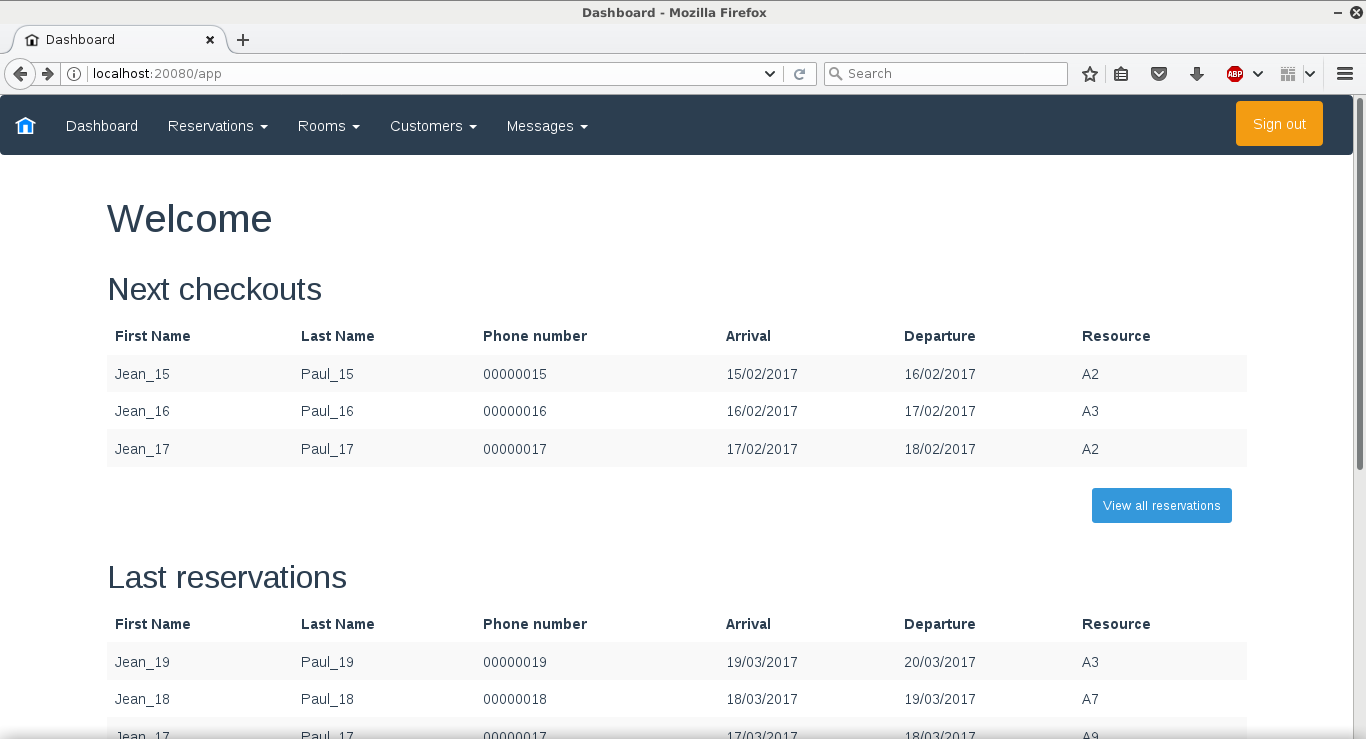
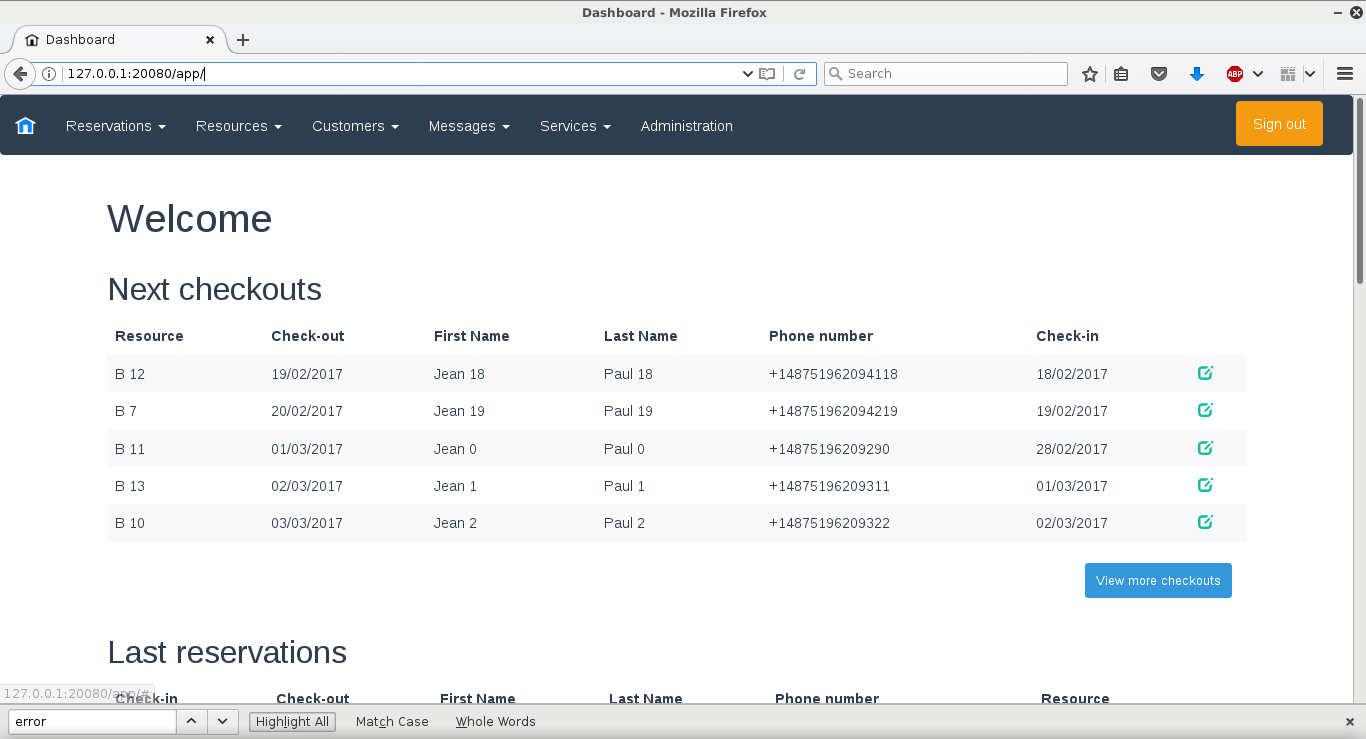
Improve screenshots

diff --git a/README.md b/README.md
@@ -14,6 +14,8 @@ Default user:
 
     admin : admin
         
-### Screenshot
+### Screenshots
 
 ![Screenshot](screenshots/screenshot_1.png)
+
+![Screenshot](screenshots/screenshot_2.png)
